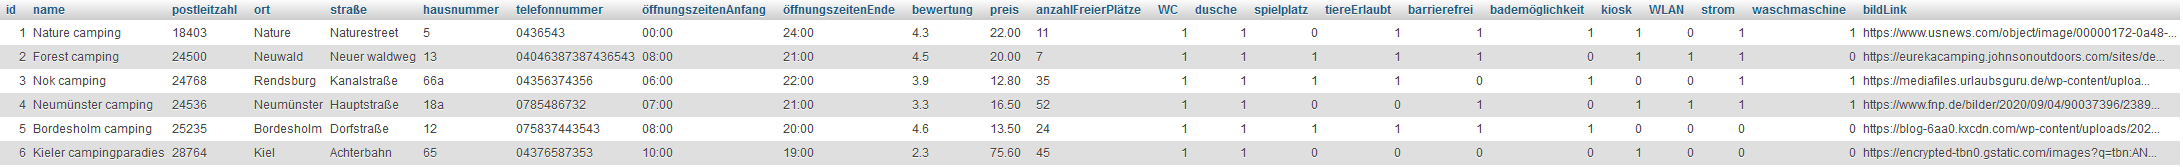
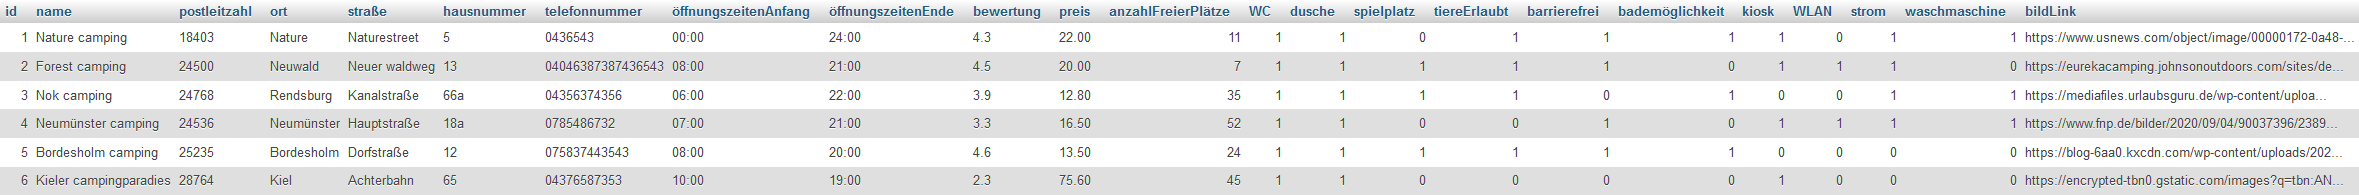
Bilddateien angepasst

diff --git a/backend/datenbankSQL.py b/backend/datenbankSQL.py
@@ -19,7 +19,7 @@ def createTabelle():
 
     mycursor = mydb.cursor()
     mycursor.execute(
-        "CREATE TABLE IF NOT EXISTS dataTable (id INT AUTO_INCREMENT PRIMARY KEY, name VARCHAR(50), postleitzahl VARCHAR(5), ort VARCHAR(30), straße VARCHAR(30), hausnummer VARCHAR(15), telefonnummer VARCHAR(30), öffnungszeitenAnfang VARCHAR(5), öffnungszeitenEnde VARCHAR(5), bewertung VARCHAR(3), preis VARCHAR(6), anzahlFreierPlätze VARCHAR(5), WC BOOLEAN, dusche BOOLEAN, spielplatz BOOLEAN, tiereErlaubt BOOLEAN, barrierefrei BOOLEAN, bademöglichkeit BOOLEAN, kiosk BOOLEAN, WLAN BOOLEAN, strom BOOLEAN, waschmaschine BOOLEAN, bildLink VARCHAR(255))"
+        "CREATE TABLE IF NOT EXISTS dataTable (id INT AUTO_INCREMENT PRIMARY KEY, name VARCHAR(50), postleitzahl VARCHAR(5), ort VARCHAR(30), straße VARCHAR(30), hausnummer VARCHAR(15), telefonnummer VARCHAR(30), öffnungszeitenAnfang VARCHAR(5), öffnungszeitenEnde VARCHAR(5), bewertung VARCHAR(3), preis VARCHAR(7), anzahlFreierPlätze SMALLINT, WC BOOLEAN, dusche BOOLEAN, spielplatz BOOLEAN, tiereErlaubt BOOLEAN, barrierefrei BOOLEAN, bademöglichkeit BOOLEAN, kiosk BOOLEAN, WLAN BOOLEAN, strom BOOLEAN, waschmaschine BOOLEAN, bildLink VARCHAR(255))"
     )
 
 #Fügt der Tabelle einen Datensatz hinzu und führt dann die writeToJSON Funktion aus (siehe unten), sofern der Name in der Datenbank noch nicht vorhanden ist
